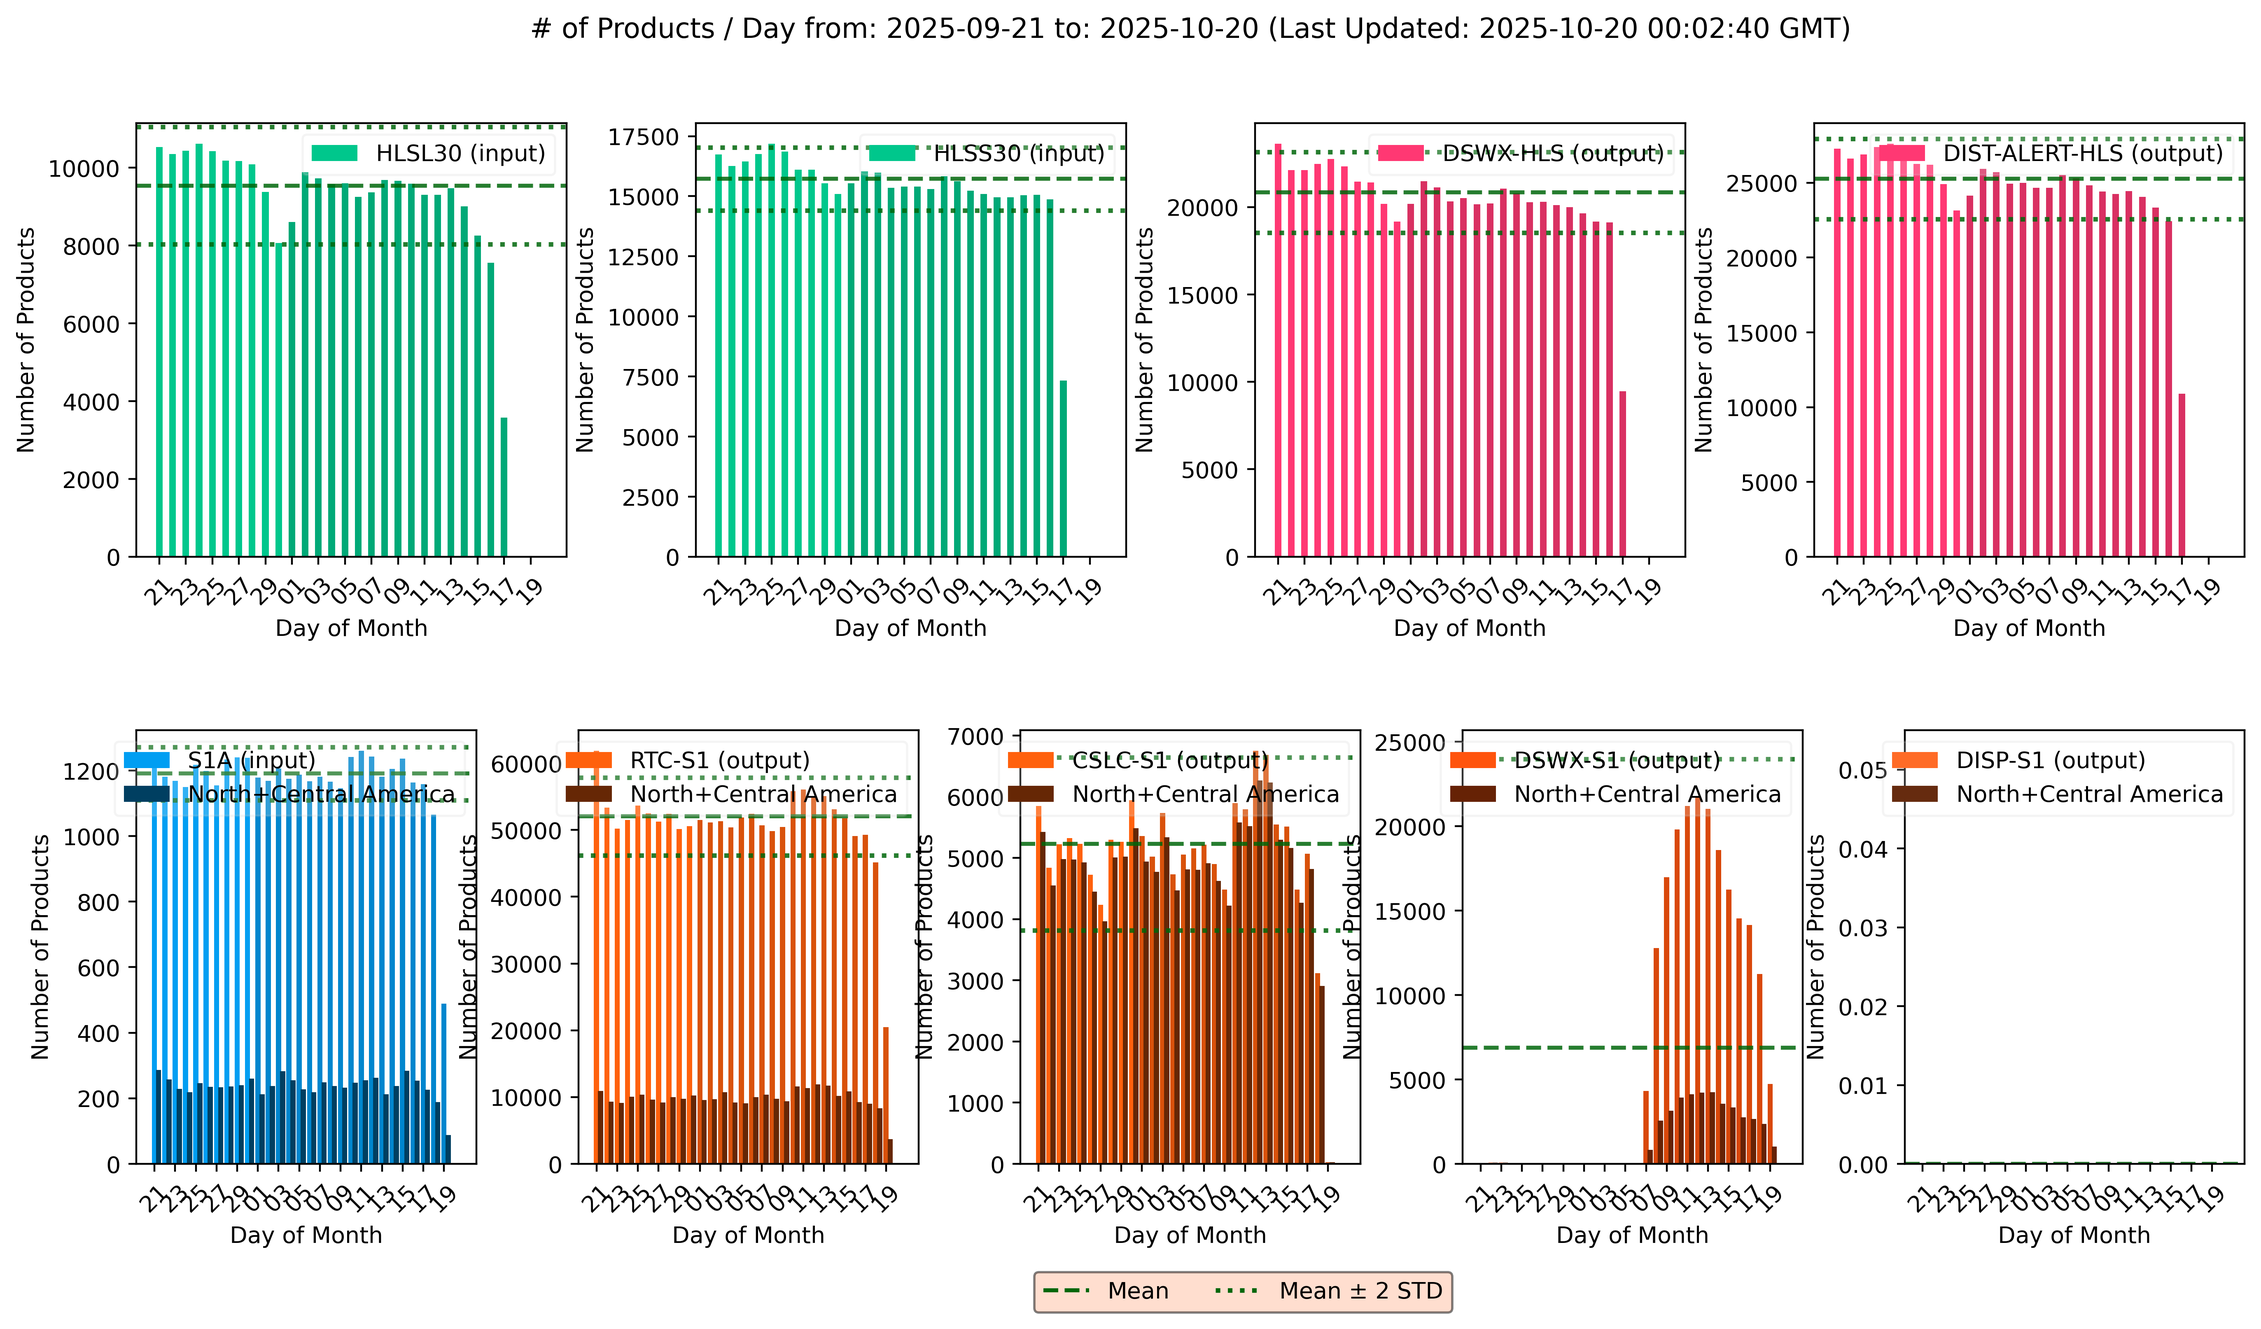
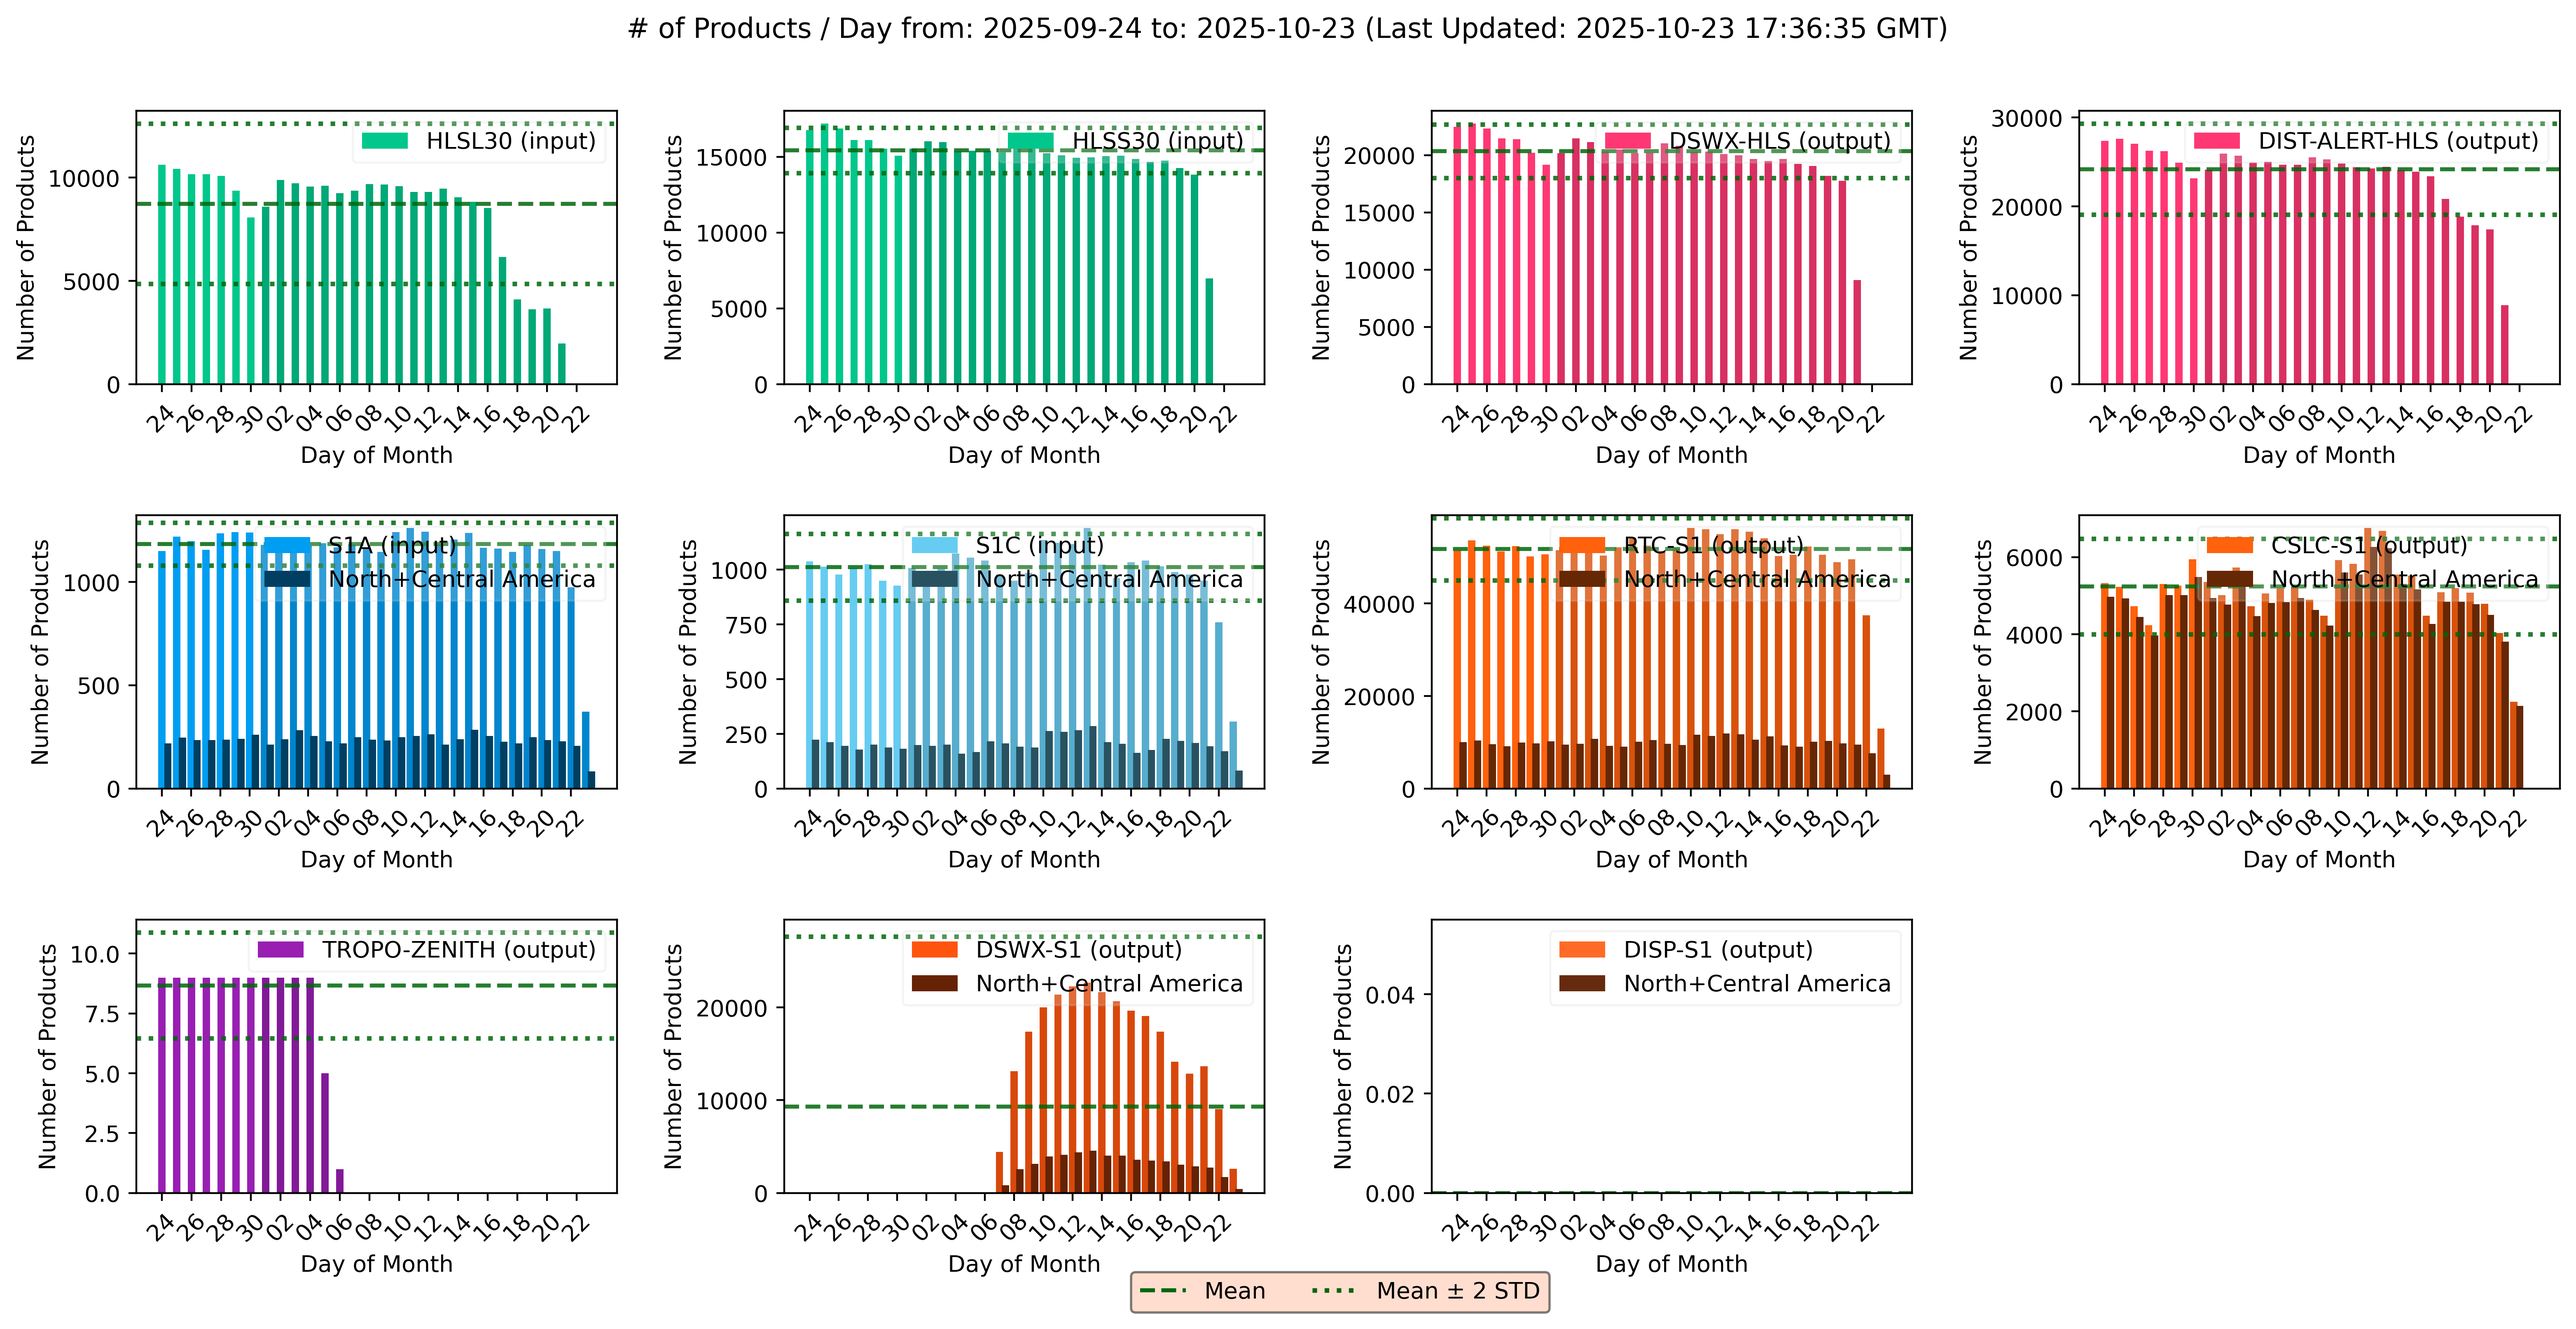
Add tracking for S1C and OPERA L4 TROPO-ZENITH products

diff --git a/monitoring/opera_daily_products_query.py b/monitoring/opera_daily_products_query.py
@@ -209,12 +209,12 @@ def plot_products(quiet):
     bar_width = 0.5  # fixed bar width
     plot_size = (16 * x_scale, 9 * y_scale)
 
-    COLLECTIONS = ["HLSL30", "HLSS30", "OPERA_L3_DSWX-HLS_V1", "OPERA_L3_DIST-ALERT-HLS_V1", "empty",
-                   "SENTINEL-1A_SLC", "OPERA_L2_RTC-S1_V1", "OPERA_L2_CSLC-S1_V1", "OPERA_L3_DSWX-S1_V1", "OPERA_L3_DISP-S1_V1"]
-    LABELS = ["HLSL30 (input)", "HLSS30 (input)", "DSWX-HLS (output)",  "DIST-ALERT-HLS (output)", "empty",
-              "S1A (input)", "RTC-S1 (output)", "CSLC-S1 (output)", "DSWX-S1 (output)", "DISP-S1 (output)"]
+    COLLECTIONS = ["HLSL30", "HLSS30", "OPERA_L3_DSWX-HLS_V1", "OPERA_L3_DIST-ALERT-HLS_V1",
+                   "SENTINEL-1A_SLC", "SENTINEL-1C_SLC", "OPERA_L2_RTC-S1_V1", "OPERA_L2_CSLC-S1_V1", "OPERA_L4_TROPO-ZENITH_V1", "OPERA_L3_DSWX-S1_V1", "OPERA_L3_DISP-S1_V1"]
+    LABELS = ["HLSL30 (input)", "HLSS30 (input)", "DSWX-HLS (output)",  "DIST-ALERT-HLS (output)",
+              "S1A (input)", "S1C (input)", "RTC-S1 (output)", "CSLC-S1 (output)", "TROPO-ZENITH (output)", "DSWX-S1 (output)", "DISP-S1 (output)"]
 
-    NA_COLLECTIONS = ["SENTINEL-1A_SLC", "OPERA_L2_RTC-S1_V1", "OPERA_L2_CSLC-S1_V1", "OPERA_L3_DSWX-S1_V1", "OPERA_L3_DISP-S1_V1"]
+    NA_COLLECTIONS = ["SENTINEL-1A_SLC", "SENTINEL-1C_SLC", "OPERA_L2_RTC-S1_V1", "OPERA_L2_CSLC-S1_V1", "OPERA_L3_DSWX-S1_V1", "OPERA_L3_DISP-S1_V1"]
 
     # Use complementary colors to differential input and output
     COLORS = [
@@ -222,10 +222,11 @@ def plot_products(quiet):
         (0.0, 0.78, 0.55),
         (1.0, 0.22, 0.45),   # Compliment
         (1.0, 0.22, 0.45),
-        (1.0, 0.22, 0.45),
-        (0.0, 0.62, 0.95),   # Light Blue
-        (1.0, 0.38, 0.05),   # ComplimentI
-        (1.0, 0.38, 0.05),
+        (0.0, 0.62, 0.95),   # Light Blue for S1A
+        (0.4, 0.8, 0.95),    # Lighter Blue for S1C
+        (1.0, 0.38, 0.05),   # Orange for RTC-S1
+        (1.0, 0.38, 0.05),   # Orange for CSLC-S1
+        (0.6, 0.12, 0.7),    # Purple for TROPO-ZENITH
         (1.0, 0.33, 0.05),
         (1.0, 0.42, 0.15)
     ]
@@ -243,15 +244,10 @@ def plot_products(quiet):
     # Use a progress bar if 'quiet' option is set
     outer_progress_bar = tqdm(total=len(COLLECTIONS), desc="Overall Progress", leave=True) if quiet else None
 
-    # Create subplots: 2 row, 4 plots/row
-    second_row_flag = False
+    # Create subplots: 3 rows, 4 plots/row
     total_col = 4
     for ic, collection in enumerate(COLLECTIONS):
-        if ic + 1 == 5 and not second_row_flag:
-            second_row_flag = True
-            total_col = 5
-            continue
-        ax = fig.add_subplot(2, total_col, ic + 1)
+        ax = fig.add_subplot(3, total_col, ic + 1)
         products = [0] * NUM_DAYS
         na_products = [0] * NUM_DAYS
         current_month = dates_list[0].month  # Initialize the current month
